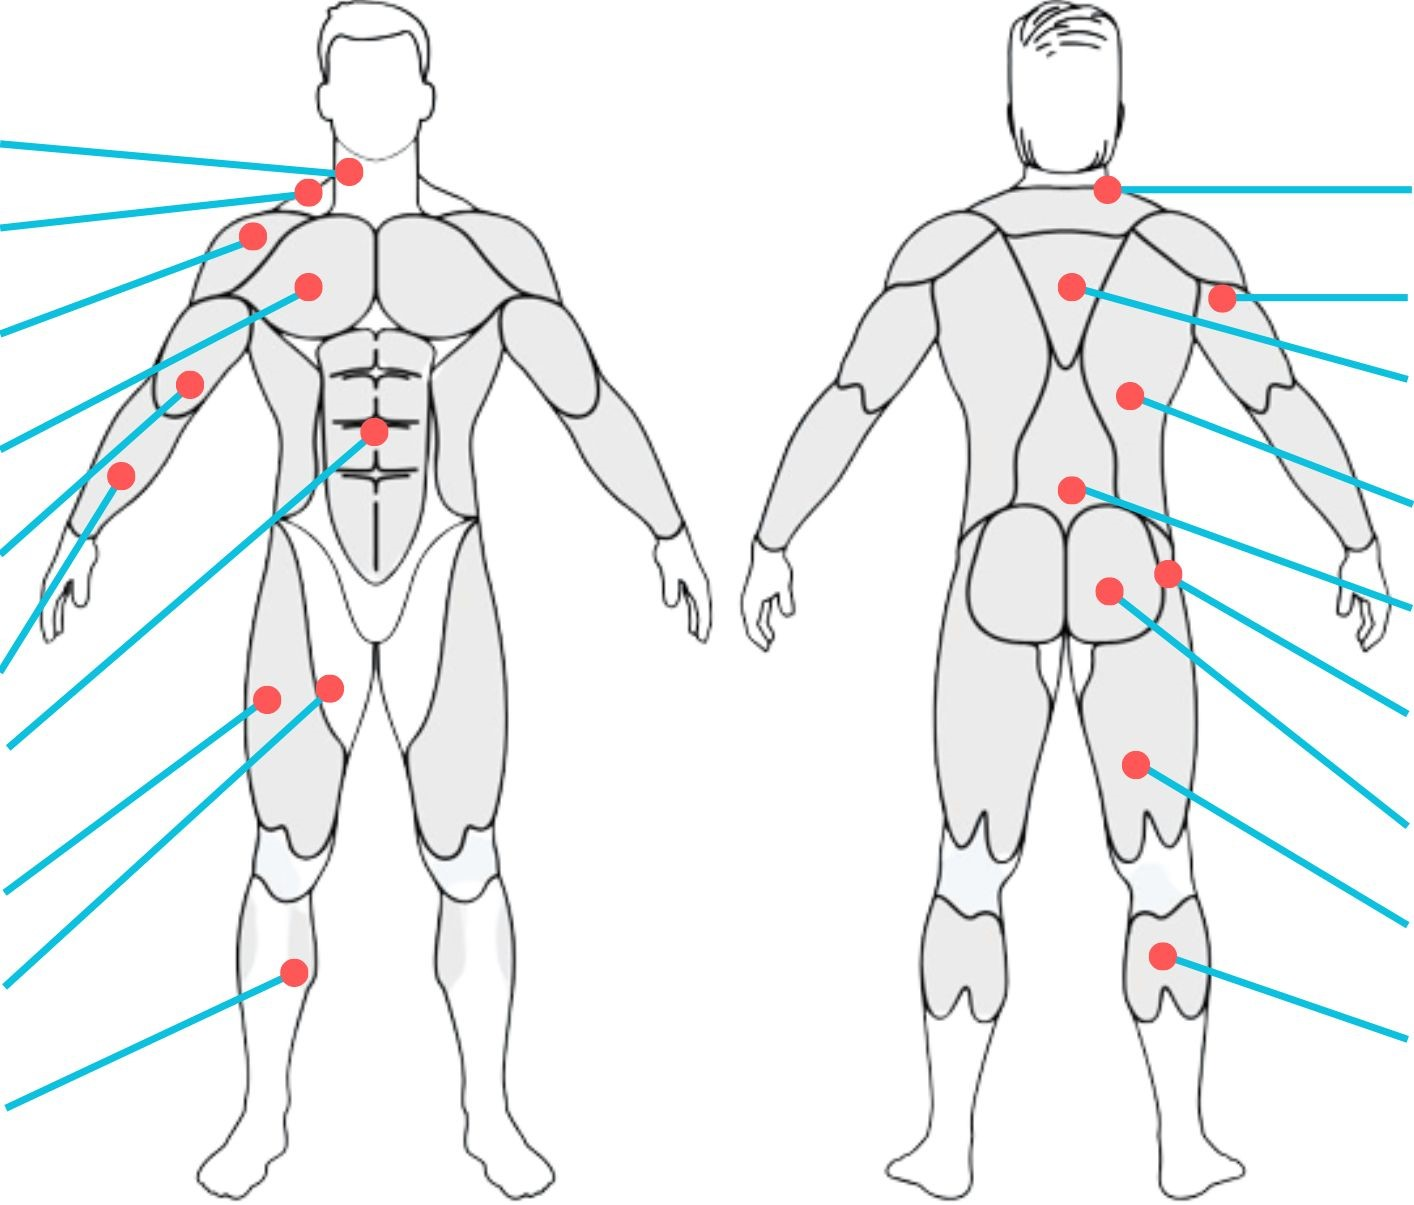
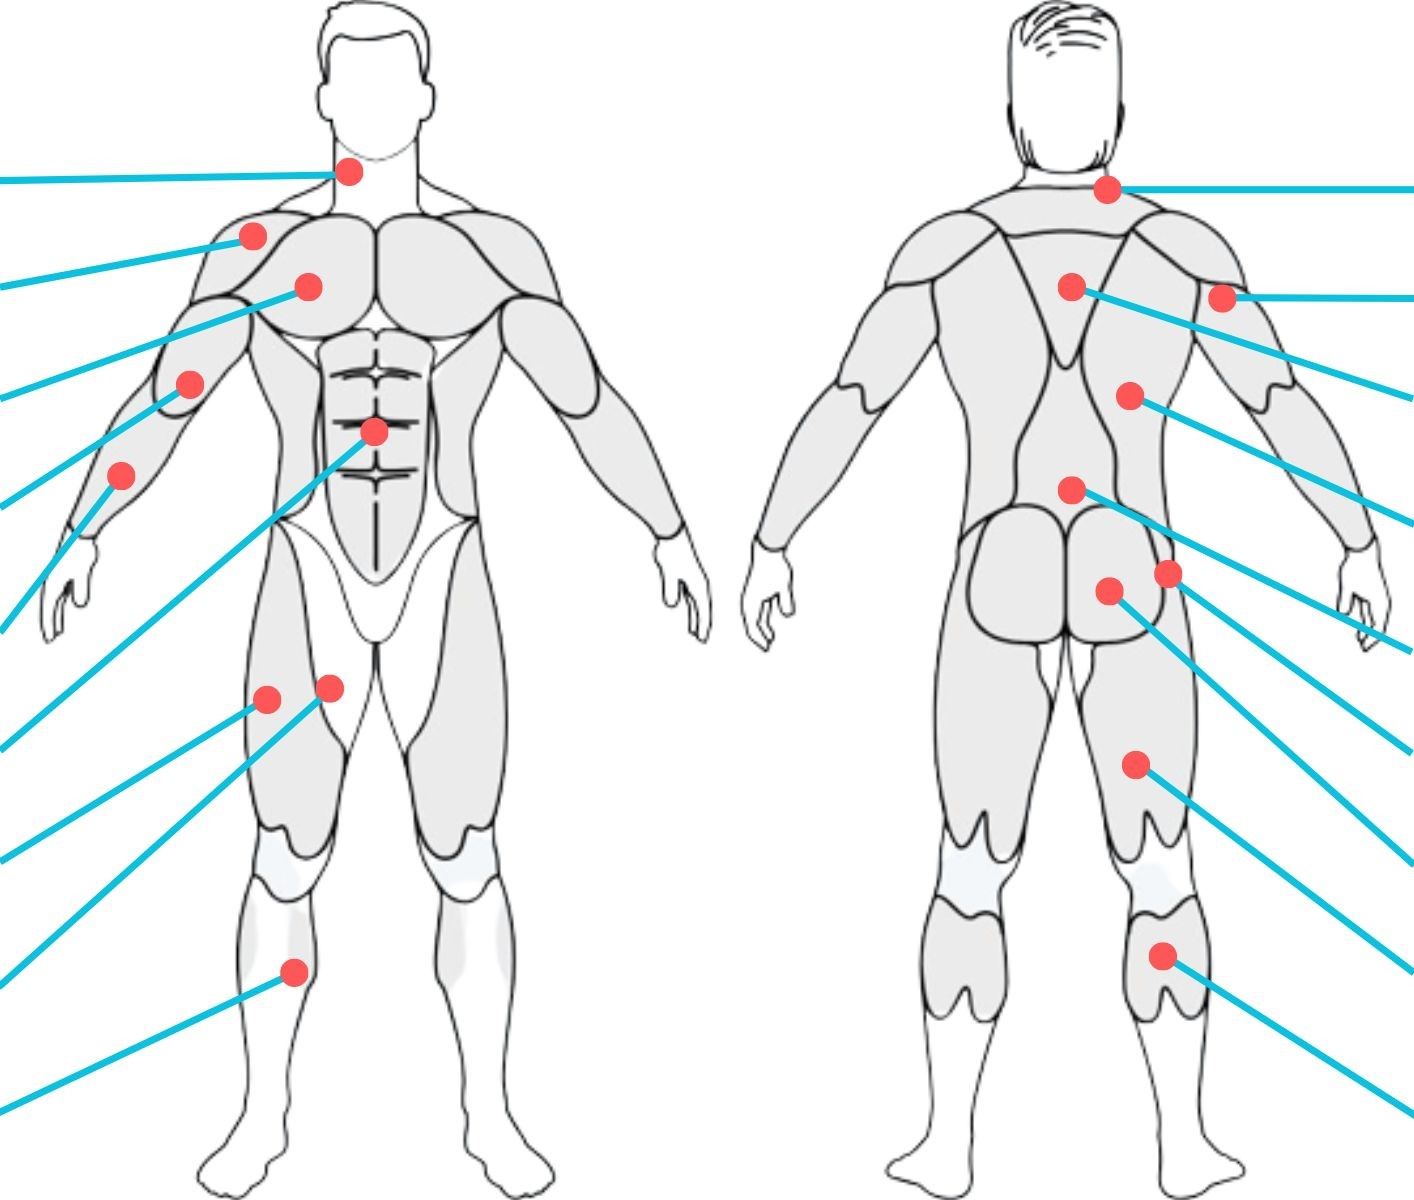
Update primary muscle page

diff --git a/templates/primary_muscle.html b/templates/primary_muscle.html
@@ -1,0 +1,162 @@
+<!DOCTYPE html>
+<html lang="en">
+
+<head>
+    <meta charset="UTF-8">
+    <meta name="viewport" content="width=device-width, initial-scale=1.0">
+    <title>Choose Primary Muscle</title>
+    <style>
+        /* CSS for Muscle Selection */
+        .container {
+            /* max-width: 800px; */
+            margin: 0 auto;
+            padding: 20px;
+        }
+
+        .muscle-selection {
+            display: flex;
+        }
+
+        .muscle-list {
+            flex: 1;
+            margin: 10px;
+            margin-top: 50px;
+            padding: 10px;
+            text-align: center;
+        }
+
+        .muscle-list h2 {
+            font-size: 20px;
+            margin: 0;
+            padding: 5px 0;
+        }
+
+        .muscle-list ul {
+            list-style: none;
+            padding: 0;
+        }
+
+        .muscle-list li {
+            margin-bottom: 15px;
+        }
+
+        .muscle-list a {
+            display: block;
+            text-decoration: none;
+            color: black;
+            padding: 5px;
+            transition: background-color 0.3s;
+        }
+
+        .muscle-list a:hover {
+            background-color: #e0e0e0;
+        }
+
+        .muscle-picture {
+            flex: 1;
+            text-align: center;
+        }
+
+        .muscle-picture img {
+            max-width: 830px;
+        }
+        /* CSS */
+        .primaryMuscle {
+            background: #fff;
+            backface-visibility: hidden;
+            border-radius: .375rem;
+            border-style: solid;
+            border-width: .125rem;
+            box-sizing: border-box;
+            color: #212121;
+            cursor: pointer;
+            display: inline-block;
+            font-family: Circular, Helvetica, sans-serif;
+            font-size: 1.125rem;
+            font-weight: 700;
+            letter-spacing: -.01em;
+            line-height: 1.3;
+            padding: .875rem 1.125rem;
+            width: 200px; /* Set your desired width here */
+            text-align: left;
+            text-decoration: none;
+            transform: translateZ(0) scale(1);
+            transition: transform .2s;
+            user-select: none;
+            -webkit-user-select: none;
+            touch-action: manipulation;
+            white-space: nowrap; /* Prevent text from wrapping */
+            overflow: hidden; /* Hide overflow text */
+            text-overflow: ellipsis; /* Add an ellipsis (...) for overflow text */
+        }
+
+        .primaryMuscle:not(:disabled):hover {
+            transform: scale(1.05);
+        }
+
+        .primaryMuscle:not(:disabled):hover:active {
+            transform: scale(1.05) translateY(.125rem);
+        }
+
+        .primaryMuscle:focus {
+            outline: 0 solid transparent;
+        }
+
+        .primaryMuscle:focus:before {
+            content: "";
+            left: calc(-1*.375rem);
+            pointer-events: none;
+            position: absolute;
+            top: calc(-1*.375rem);
+            transition: border-radius;
+            user-select: none;
+        }
+
+        .primaryMuscle:focus:not(:focus-visible) {
+            outline: 0 solid transparent;
+        }
+
+        .primaryMuscle:focus:not(:focus-visible):before {
+            border-width: 0;
+        }
+
+        .primaryMuscle:not(:disabled):active {
+            transform: translateY(.125rem);
+        }
+    </style>
+</head>
+
+<body>
+    <div class="container">
+        <h1>Choose Primary Muscle</h1>
+        <div class="muscle-selection">
+            <div class="muscle-list">
+                <form method="POST" action="{{ url_for('primary_muscle') }}">
+                    <ul>
+                        {% for muscle in primary_muscles[:9] %}
+                        <li>
+                            <button class = "primaryMuscle" type="submit" name="primaryMuscle" value="{{ muscle }}">{{ muscle }}</button>
+                        </li>
+                        {% endfor %}
+                    </ul>
+                </form>
+            </div>
+            <div class="muscle-picture">
+                <img src="{{ url_for('static', filename='muscles.jpg') }}" alt="Human Body Picture">
+            </div>
+            <div class="muscle-list">
+                <form method="POST" action="{{ url_for('primary_muscle') }}">
+                    <ul>
+                        {% for muscle in primary_muscles[9:] %}
+                        <li>
+                            <button class = "primaryMuscle" type="submit" name="primaryMuscle" value="{{ muscle }}">{{ muscle }}</button>
+                        </li>
+                        {% endfor %}
+                    </ul>
+                </form>
+            </div>
+        </div>
+    </div>
+</body>
+
+</html>

diff --git a/templates/user_input.html b/templates/user_input.html
@@ -36,12 +36,6 @@
             margin-bottom: 5px;
         }
 
-        /* Radio and checkbox input elements */
-        input[type="radio"],
-        input[type="checkbox"] {
-            margin-right: 5px;
-        }
-
         /* Dropdown select */
         select {
             width: 100%;

diff --git a/templates/recommendations.html b/templates/recommendations.html
@@ -37,7 +37,7 @@
 
         /* Image style */
         .exercise-image {
-            max-width: 80%;
+            max-width: 360px;
             border: 1px solid #333;
         }
 

diff --git a/app.py b/app.py
@@ -69,28 +69,25 @@ selected_primary_muscle = ""
 
 @app.route('/')
 def home():
-    return redirect(url_for('select_muscle'))
+    return redirect(url_for('primary_muscle'))
 
-@app.route('/select-muscle', methods=['GET', 'POST'])
-def select_muscle():
+@app.route('/primary-muscle', methods=['GET', 'POST']) 
+def primary_muscle():
     if request.method == 'POST':
         primary_muscle = request.form.get('primaryMuscle')
-
-        print("Primary muscle 1: " + primary_muscle)
-
         if primary_muscle:
             session['selected_primary_muscle'] = primary_muscle
-            return redirect(url_for('index'))
+            return redirect(url_for('user_input'))
 
-    primary_muscles_left = ["Neck", "Traps", "Shoulders", "Chest", "Biceps", "Forearms", "Abdominals", "Quadriceps", "Adductors", "Calves"]
+    primary_muscles_left = ["Neck", "Shoulders", "Chest", "Biceps", "Forearms", "Abdominals", "Quadriceps", "Adductors", "Calves"]
     primary_muscles_right = ["Traps", "Triceps", "Lats", "Middle Back", "Lower Back", "Abductors", "Glutes", "Hamstrings", "Calves"]
 
-    return render_template('muscle_selection.html', primary_muscles=primary_muscles_left + primary_muscles_right)
+    return render_template('primary_muscle.html', primary_muscles=primary_muscles_left + primary_muscles_right)
 
-@app.route('/index')
-def index():
+@app.route('/user-input')
+def user_input():
     selected_primary_muscle = session.get('selected_primary_muscle', None)
-    return render_template('index.html', primaryMuscle=selected_primary_muscle)
+    return render_template('user_input.html', primaryMuscle=selected_primary_muscle)
 
 @app.route('/recommend', methods=['GET', 'POST'])
 def recommend_exercises():
@@ -142,16 +139,6 @@ def recommend_exercises():
                 exercise_data.append(exercise_doc)
         # Render the recommendations template with the results
         return render_template('recommendations.html', recommendations=exercise_data, user_input=user_input, primaryMuscle=selected_primary_muscle)
-
-    elif request.method == 'GET':
-        # Handle the "GET" request
-        if selected_primary_muscle is None:
-            return "Please select a primary muscle first."
-
-        primary_muscles_left = ["Neck", "Traps", "Shoulders", "Chest", "Biceps", "Forearms", "Abdominals", "Quadriceps", "Adductors", "Calves"]
-        primary_muscles_right = ["Traps", "Triceps", "Lats", "Middle Back", "Lower Back", "Abductors", "Glutes", "Hamstrings", "Calves"]
-
-        return render_template('muscle_selection.html', primaryMuscles=primary_muscles_left + primary_muscles_right)
 
 if __name__ == '__main__':
     app.run(debug=True)
